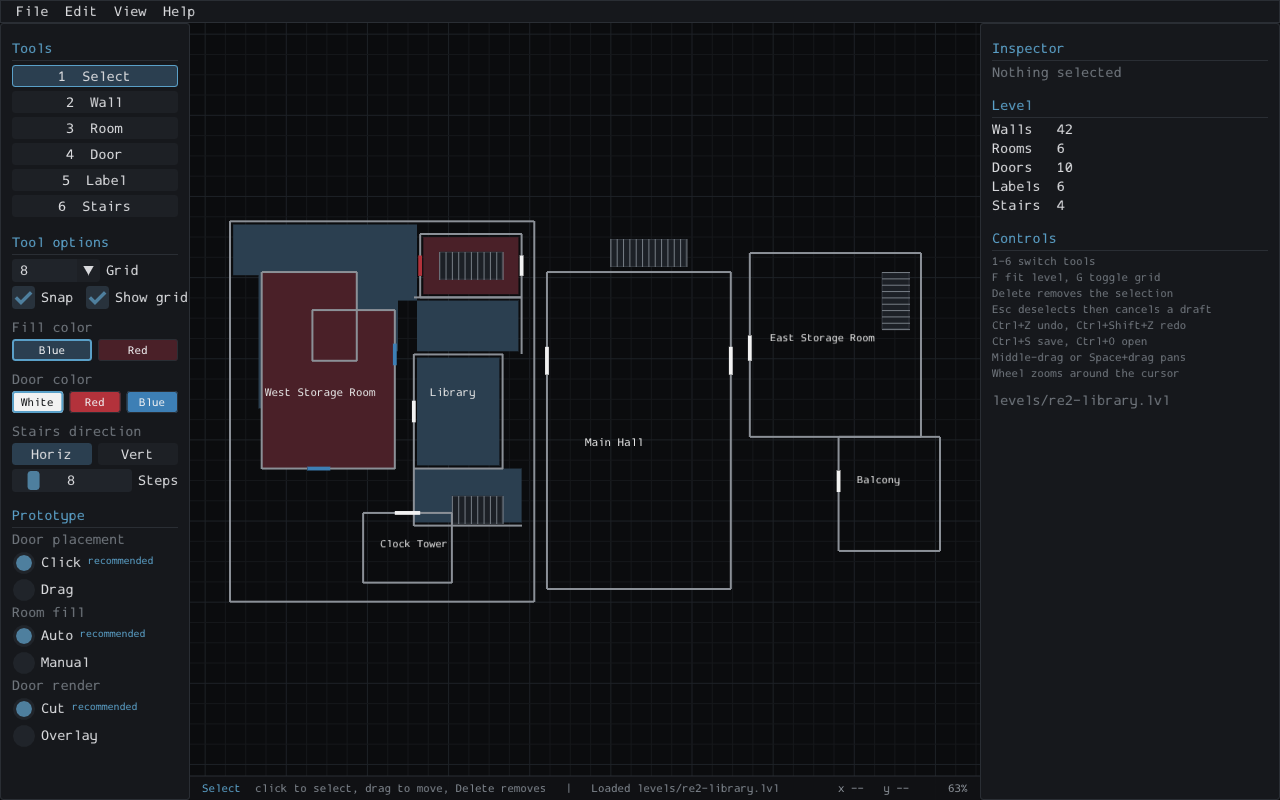
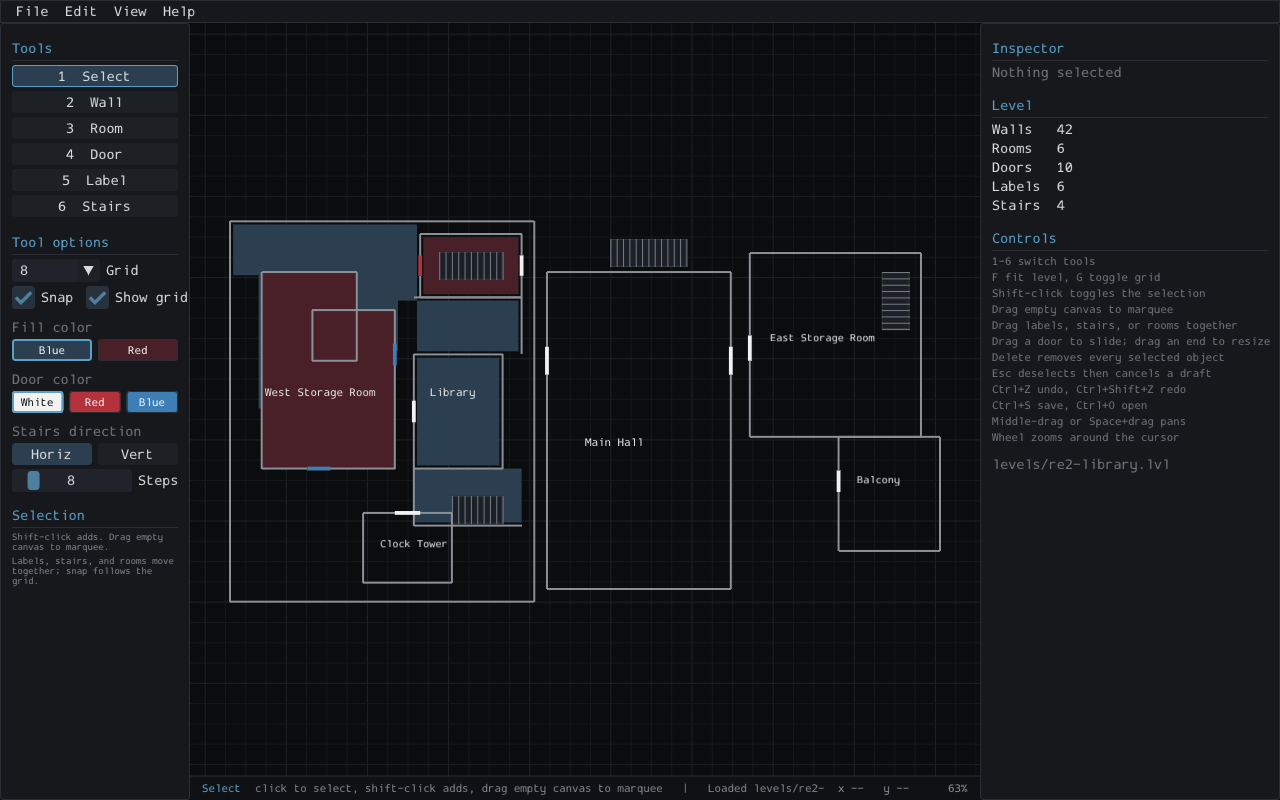
Update documentation and verification for selection and fixed defaults

diff --git a/docs/editor-ui-spec.md b/docs/editor-ui-spec.md
@@ -43,7 +43,7 @@ Click sets points. Each click appends an orthogonal segment that continues from 
 
 - The first click starts a chain at the grid-snapped point.
 - Each later click uses `snap_ortho(chain_last, cursor_world, grid)` so a segment is horizontal when `|dx| > |dy|`, vertical otherwise, and the free coordinate snaps to the grid.
-- Clicking within 12 screen pixels of the first point closes the chain: add the final wall back to the first point, then, when the fill prototype is `Auto`, add a room polygon from the chain points using the current fill color. End the chain. Select the new room.
+- Clicking within 12 screen pixels of the first point closes the chain: add the final wall back to the first point, then add a room polygon from the chain points using the current fill color. End the chain. Select the new room.
 - `Enter` also closes the chain when it has at least three points. `Esc` or right-click ends it open, keeping only the walls already added.
 - `Backspace` removes the last wall added in the current chain and moves the chain tip back. This is a live document mutation; commit history after it.
 - Show a preview segment from the last point to the constrained cursor, the first-point marker with a "close" highlight when near, and small vertex dots.
@@ -51,17 +51,15 @@ Click sets points. Each click appends an orthogonal segment that continues from 
 
 ### Room
 
-Click points to draw a polygon fill directly, independent of walls. Points snap to the grid, no orthogonality constraint. Clicking the first point, `Enter`, or a double-click closes it. `Esc` cancels the draft. On close, require 3 points and call `level_add_room` with the current fill color. Select it. This is the manual fill path and stays available in both prototype modes.
+Click points to draw a polygon fill directly, independent of walls. Points snap to the grid, no orthogonality constraint. Clicking the first point, `Enter`, or a double-click closes it. `Esc` cancels the draft. On close, require 3 points and call `level_add_room` with the current fill color. Select it.
 
 ### Door
 
-Door placement follows the prototype switch.
+Click near a wall to add a door centered at the projected t with width `min(44, wall_length)`, current door color. The center snaps to the grid along the wall axis. Select the new door.
 
-- `Click` mode: click near a wall; add a door centered at the projected t with width `min(44, wall_length)`, current door color. Select it.
-- `Drag` mode: press near a wall, drag along it, release. Width is the dragged span length clamped to at least `DOOR_MIN_WIDTH` and at most the wall length, centered at the span midpoint. A press-release without movement behaves like click mode.
-- Hover highlights the nearest wall within tolerance and previews the door bar.
-- Door bar drawing follows the Door render prototype. `Cut` draws the wall in segments excluding each door span, then the bar, so the wall visually opens under the door. `Overlay` draws the full wall and the bar on top, then restrokes the wall through the bar so the difference is visible at normal zoom. Thickness is always `DOOR_THICKNESS`.
-- In Select, dragging a door body slides it along its wall. Dragging within 8 screen pixels of either end resizes it around the opposite end. Clamp through `level_set_door_span`.
+- Hover highlights the nearest wall within tolerance and previews the snapped door bar.
+- The wall is always drawn in segments that exclude each door span, then the bar. The wall visually opens under the door. Thickness is always `DOOR_THICKNESS`.
+- In Select, dragging a door body slides it along its wall. Dragging within 8 screen pixels of either end resizes it around the opposite end. Both snap with the grid and clamp through `level_set_door_span`.
 
 ### Label
 
@@ -75,11 +73,16 @@ Click places stairs at the snapped point using the current direction and step co
 
 Click hit-tests in this order: door, label, stairs, wall, room. Tolerance is 7 screen pixels for walls and doors. Labels use their measured text rect. Stairs use `level_stairs_rect`. Rooms use `level_room_at`.
 
-- Drag a label, stair, or room to move it. Rooms move all points. A drag mutates live and commits one history snapshot on release.
-- Drag a wall: select only. No wall endpoint editing in this version.
-- Click empty space clears the selection.
-- `Delete` or Edit > Delete removes the selection. Deleting a wall cascades its doors through `level_delete_wall`; clear the selection after.
-- `Esc` clears selection, then cancels chain or polygon draft.
+Selection is a bounded set per object kind plus a primary reference. The set is never serialized.
+
+- Plain click on an unselected object replaces the selection. Plain click on a selected object inside a multi-selection keeps the group and makes that object primary.
+- Shift-click toggles the hit object in or out and does not start a drag.
+- Plain press on empty canvas clears the selection and starts a marquee. Shift-press starts an additive marquee. Travel under 4 screen pixels is a click.
+- On marquee release, select every object intersecting the rectangle. Walls and doors use segment intersection, labels and stairs use rect overlap, rooms use polygon intersection.
+- Drag a selected label, stair, or room to move every selected label, stair, and room together. The group snaps from the primary object's anchor and commits one history snapshot on release. Walls stay fixed.
+- A selected door still slides or resizes on its own.
+- `Delete` or Edit > Delete removes every selected object in one history snapshot. Deleting a wall cascades its doors.
+- `Esc` clears selection, cancels a draft, or restores a live drag.
 
 ## Inspector
 
@@ -91,7 +94,7 @@ Show properties for the selected object, all edits through `level.*` and committ
 - Label: single-line text input, size slider 8 to 48, position, Delete.
 - Stairs: direction Horizontal/Vertical, step count slider `STAIR_MIN_STEPS` to `STAIR_MAX_STEPS`, position, Delete.
 
-When nothing is selected, show level counts and a short controls list.
+When exactly one object is selected, show its properties. When more than one is selected, show the total, per-kind counts, a short hint, and Delete. When nothing is selected, show level counts and a short controls list.
 
 ## Tool options in the left panel
 
@@ -101,7 +104,7 @@ Below the tool buttons:
 - Fill color: Blue / Red swatches, used for new rooms and room recolor.
 - Door color: White / Red / Blue swatches.
 - Stairs: direction toggle and step count slider.
-- Prototype panel, either here or in the inspector: three radio groups for Door placement, Room fill, and Door render, with a one-line explanation and a "recommended" label on Click / Auto / Cut. These are comparison controls, not decorative.
+- Selection hints under a Selection heading: shift-click adds, drag empty canvas to marquee, and snap follows the grid size.
 
 ## File menu and persistence
 
@@ -115,11 +118,11 @@ Use `igInputText` with a stable `char` buffer in the editor. Do not use native f
 
 ## Undo
 
-`History` stores whole-level snapshots. The UI commits after each completed mutation: add wall, close chain, add room, add door, add label, add stairs, delete, and a finished drag or inspector edit. Do not commit every mouse move. Undo/redo clears transient state and validates the selection.
+`History` stores whole-level snapshots. The UI commits after each completed mutation: add wall, close chain, add room, add door, add label, add stairs, delete, and a finished drag or inspector edit. Do not commit every mouse move. Undo/redo records the five pool counts. If any count changed, the selection clears. If counts are equal, it prunes invalid references.
 
 ## Keyboard summary
 
-1 to 6 tools, `Delete` delete, `Esc` cancel/deselect, `Enter` close, `Backspace` undo last chain wall, `F` fit, `G` toggle grid, `Ctrl+Z/Y` undo/redo, `Ctrl+S/O` save/open, `H` help.
+1 to 6 tools, `Delete` delete the selection, `Shift` plus click toggle selection, drag empty canvas marquee, `Esc` cancel/deselect, `Enter` close, `Backspace` undo last chain wall, `F` fit, `G` toggle grid, `Ctrl+Z/Y` undo/redo, `Ctrl+S/O` save/open, `H` help.
 
 ## Acceptance checks
 
@@ -127,11 +130,13 @@ The UI owner must verify all of these on the real X11 window and report the comm
 
 1. `make` builds with no warnings from `src/`.
 2. Launch with the demo level. Screenshot shows blue and red fills, white/red/blue doors, labels, and hatched stairs. Sample pixels to prove the fill colors exist.
-3. Draw a closed four-click rectangle with the Wall tool. Screenshot shows the walls and, in Auto mode, a new fill. Verify with `level_stats` text or pixel sampling.
+3. Draw a closed four-click rectangle with the Wall tool. Screenshot shows the walls and a new fill. Verify with `level_stats` text or pixel sampling.
 4. Switch to Select, click the new fill, press Delete, screenshot or status confirms removal.
 5. Place a door on a wall, drag it along the wall, resize it, change its color in the inspector.
 6. Add a label, type in the inspector, move it. Add stairs, change step count and direction.
 7. Save to a temp path, New, Open the temp path, confirm the same object counts.
 8. Undo and redo at least one add and one delete.
+9. Shift-click two objects, drag them, confirm the group moves and snaps, then delete both in one step.
+10. Drag a marquee across the level, delete all, undo, and confirm the counts return.
 
 Screenshots go to `/tmp/ink-ribbon-verify-*.png`. Do not commit them.

diff --git a/README.md b/README.md
@@ -45,6 +45,8 @@ Load another level with `./build/editor --level path/to/level.lvl`. The `levels/
 - Add text labels anywhere, edit the text in the inspector, resize and move them.
 - Add standard stairs with 2 to 48 steps. The step count sets the run length, and each run is horizontal or vertical.
 - Select, move, edit, and delete the placed objects. Deleting a wall also deletes the doors hosted by it.
+- Click to select, shift-click to add or remove, or drag from empty canvas to marquee select. Delete removes the whole selection in one step, and dragging selected labels, stairs, and rooms moves them together.
+- Snap to the grid on placement and movement. The grid sizes are 4, 8, 16, and 32 world units, and the Snap checkbox turns snapping off.
 - Pan, zoom, fit the level, undo and redo, save, and load.
 
 ## Controls
@@ -53,12 +55,14 @@ Load another level with `./build/editor --level path/to/level.lvl`. The `levels/
 | --- | --- |
 | 1 to 6 | Select, Wall, Room, Door, Label, Stairs |
 | Left click | Use the active tool |
+| Shift plus left click | Toggle an object in the selection |
+| Drag on empty canvas | Marquee select; Shift adds to the selection |
 | Middle drag, or Space plus left drag | Pan |
 | Mouse wheel | Zoom around the cursor |
 | Enter | Close a wall chain or room polygon |
-| Esc | Clear the selection, then cancel a draft |
+| Esc | Clear the selection, cancel a draft, or cancel a drag |
 | Backspace | Remove the last wall in the current chain |
-| Delete | Delete the selected object |
+| Delete | Delete every selected object |
 | F | Fit the level |
 | G | Toggle the grid |
 | Ctrl+Z, Ctrl+Y, Ctrl+Shift+Z | Undo, redo |
@@ -74,41 +78,23 @@ Painted areas are explicit polygons. That keeps their color and identity when ne
 
 Labels store a position, a size, and a string. Stairs store a center, a direction, and a step count. `STAIR_STEP_DEPTH` and `STAIR_WIDTH` fix the tread size.
 
+Selection is UI state and is never saved into a level. It is a bounded set per object kind plus a primary object. Shift-click toggles an object, a marquee replaces or adds to the set, and Delete removes every selected object with one undo step. Dragging a selected label, stair, or room moves all selected labels, stairs, and rooms together. Doors keep their own slide and end-resize gestures. Walls stay selected but do not move.
+
+Snap-to-grid applies to wall and room points, labels, stairs, door centers, door spans, and object drags. A group drag snaps from the primary object, so the relative spacing of the group stays intact. Snap is on by default. The grid sizes are 4, 8, 16, and 32 world units.
+
 Undo stores whole level snapshots. Each completed change writes one snapshot. A wall click, a drag, and a property edit each undo as their own step. Closing a loop writes its closing walls and the fill together. The history keeps 64 levels.
 
-## Prototype options
+## Selection and snapping
 
-The Prototype panel switches three interaction choices at runtime. All six behaviors are implemented. These screenshots were taken from the running editor.
+![Marquee selection in progress](docs/screenshots/marquee.png)
 
-### Door placement
+A plain click selects one object. Shift-click adds or removes an object. Dragging from empty canvas draws a marquee, and Shift makes the marquee additive. The inspector shows per-kind counts for a multi-selection, and Delete removes the whole set in one undo step.
 
-Click places a standard 44 unit door on the nearest wall and selects it. Drag sets the span in one press, drag, release gesture.
+![Two selected labels](docs/screenshots/selection.png)
 
-| Click, recommended | Drag |
-| --- | --- |
-| ![Click placement](docs/screenshots/proto-door-click.png) | ![Drag placement](docs/screenshots/proto-door-drag.png) |
+Dragging a selected label, stair, or room moves every selected label, stair, and room. A door in a multi-selection still slides along its wall or resizes from an end. Snap uses the grid size set in the left panel. The group snaps from the primary object's anchor, so the rest of the group keeps its offset.
 
-Click wins for the common loop of placing many doors quickly. The inspector changes length later when needed. Drag is better when the span is known before placing.
-
-### Room fill
-
-Auto creates a blue or red fill when a wall chain closes. Manual leaves the closed loop unfilled and the Room tool draws fills explicitly.
-
-| Auto, recommended | Manual |
-| --- | --- |
-| ![Automatic fill](docs/screenshots/proto-fill-auto.png) | ![Manual fill](docs/screenshots/proto-fill-manual.png) |
-
-Auto matches the requested workflow, where closing the lines creates the area to color. Manual is there for painted areas that do not follow the walls, which the reference also uses.
-
-### Door render
-
-Cut interrupts the wall behind the door. Overlay keeps the wall visible through the bar.
-
-| Cut, recommended | Overlay |
-| --- | --- |
-| ![Cut door render](docs/screenshots/proto-render-cut.png) | ![Overlay door render](docs/screenshots/proto-render-overlay.png) |
-
-Cut matches the reference image. Overlay is useful when checking that a door sits on a continuous wall.
+The recommended interaction settings are now the only behavior. Door placement is click only, closing a wall loop always creates a fill, and a door always opens the wall behind it. The Prototype panel and its unused variants were removed.
 
 ## Level format
 
@@ -134,7 +120,7 @@ Records are `wall`, `room`, `door`, `label`, and `stairs`. Walls carry their ids
 | `src/editor.c` | ImGui theme, panels, canvas, gestures, camera, modals |
 | `src/level.c` | level document, edits, save, load, undo ring |
 | `src/geom.c` | vectors, snapping, segment and polygon math |
-| `tests/test_level.c` | 156 headless checks for the core |
+| `tests/test_level.c` | 163 headless checks for the core |
 | `tools/verify.sh` | end-to-end X11 check with pixel evidence |
 | `tools/shot.sh` | build, launch, drive, screenshot |
 | `tools/gen_demo_map.py` | regenerate the demo level |
@@ -153,17 +139,21 @@ make verify
 
 ```text
 PASS build without warnings
-PASS core tests
+PASS prototype settings removed
+PASS core tests (163 checks)
 PASS demo fills blue=28197 red=25854 white=440
 PASS closed loop added a fill (+9296 blue px)
 PASS delete removed the fill
 PASS undo restored the fill
-PASS click placement added a white door (+50 white px)
+PASS click placement added a white door (+52 white px)
 PASS label typed and deactivated
-PASS save wrote 46 walls, 11 doors, and the unmoved label
-PASS reload restored the level (blue=37760)
-PASS overlay render differs by 793 px
-PASS l-shaped close created a fill (+6800 blue px)
+PASS save wrote 46 walls, 11 doors, a grid label, and a grid door
+PASS reload restored the level (blue=37899)
+PASS marquee selected and deleted the whole level
+PASS undo restored the level after marquee delete
+PASS group drag moved both labels onto the grid
+PASS shift selection deleted both labels in one step
+PASS l-shaped close created a fill (+6884 blue px)
 PASS l-shaped close saved 4 new walls and a 4 point room
 ALL EDITOR CHECKS PASSED
 ```
@@ -175,9 +165,9 @@ The script assumes a 1280x800 window and the default panel widths. Screenshots l
 - Walls are horizontal or vertical only. Walls can be selected and deleted, but their endpoints do not drag. Deleting a wall cascades its doors.
 - Painted areas are independent polygons and do not follow wall edits.
 - Fixed capacities are 512 walls, 64 areas, 256 doors, 128 labels, and 64 stair runs. A capacity failure is reported in the status strip.
-- One level is open at a time. New and Open do not ask before discarding unsaved changes. There is no copy and paste, no multi-select, and no native file dialog.
+- One level is open at a time. New and Open do not ask before discarding unsaved changes. There is no copy and paste and no native file dialog.
+- Group drag moves labels, stairs, and rooms. Walls and doors stay fixed, and a door slides or resizes on its own.
 - The editor was tested on Linux and X11 only.
-- The door prototype holds the wall stroke under the bar in Overlay mode so the difference from Cut is visible at normal zoom.
 
 ## Third party
 

diff --git a/docs/architecture.md b/docs/architecture.md
@@ -20,17 +20,13 @@ Undo is a ring of `Level` snapshots in `History`. The UI commits one snapshot pe
 
 The core (`geom.*`, `level.*`) includes no sokol or ImGui header and builds with gcc alone, so it is tested headlessly. `main.c` owns the sokol lifecycle. `editor.*` owns UI state, gestures, and drawing. The split is enforced by the Makefile: `make test` links only the core.
 
-## Prototypes
+## Fixed interaction choices
 
-The editor ships an in-app Prototype panel with three switches, because the interaction feel is the part worth comparing in the real surface.
+The prototype comparison picked click door placement, automatic room fill on wall-loop close, and cut door rendering. Those are now the only behavior. The Prototype panel and the drag-placement, manual-fill, and overlay-render branches were removed. The Room tool still draws explicit fills for painted areas that do not follow walls.
 
-Door placement. `Click` places a standard door on the nearest wall and selects it. `Drag` sets the span in one press-drag-release gesture.
+Selection is UI state in `editor.c`, not part of `Level`. It is five bounded per-kind sets plus a primary reference. Shift-click toggles, a marquee replaces or adds, and Delete removes every selected object in one snapshot. Labels, stairs, and rooms move as a group. Doors keep door-only slide and resize gestures.
 
-Room fill. `Auto` creates a filled room when a wall chain closes. `Manual` leaves the loop unfilled and the Room tool draws a polygon explicitly.
-
-Door render. `Cut` interrupts the wall behind the door, as in the reference. `Overlay` draws the bar on top of a continuous wall.
-
-Each variant can be screenshotted from the running app. The README records the recommendation after the comparison.
+Snap applies to placement and to label, stair, room, door, and group drags. Group drags snap from the primary object's anchor so relative spacing is preserved. The Snap checkbox and grid size remain user controls.
 
 ## Alternatives rejected
 
@@ -43,7 +39,7 @@ Each variant can be screenshotted from the running app. The README records the r
 
 - Fixed capacities (512 walls, 64 rooms, 256 doors, 128 labels, 64 stairs) are enough for a floor plan and keep the format and snapshots simple. Capacity failure is reported in the status line.
 - Rooms are duplicated geometry rather than derived topology. A room can drift from its walls after wall deletion; that matches the reference, where fills are painted areas.
-- Selection is a kind plus index. Deleting an object clears the selection, and doors keep stable wall IDs, so no generational handles are needed.
+- Selection is a bounded set per object kind plus a primary reference. It is cleared when an undo changes pool counts, so indices never retarget silently. Doors keep stable wall IDs, so no generational handles are needed.
 - `make test` covers the pure core only. Canvas behavior is proven by driving the real window and screenshotting it.
 
 ## Synthesis decision
@@ -52,4 +48,4 @@ The base is the independent segment document above. Candidate A proposed a welde
 
 From candidate A we kept stable wall ids, the door host reference, the delete cascade, whole-document snapshots, the all-or-nothing load, and the fixed capacity constants. From candidate B we kept the typed pools, one gesture union, and the discovery that ImGui 1.93 has `ImDrawList_AddConcavePolyFilled`, which removes the triangulation A proposed. We rejected the vertex pool, generational handles, integer coordinates, and rooms as wall cycles.
 
-The prototype panel shipped all six variants. The recommendation is Click for door placement, Auto for room fill, and Cut for door render. The evidence and screenshots are in `README.md`.
+The prototype comparison picked Click for door placement, Auto for room fill, and Cut for door render. Those choices are now fixed, the panel is gone, and multi-selection plus grid snapping sit on top of the same document model. The evidence is in `README.md` and `tools/verify.sh`.
